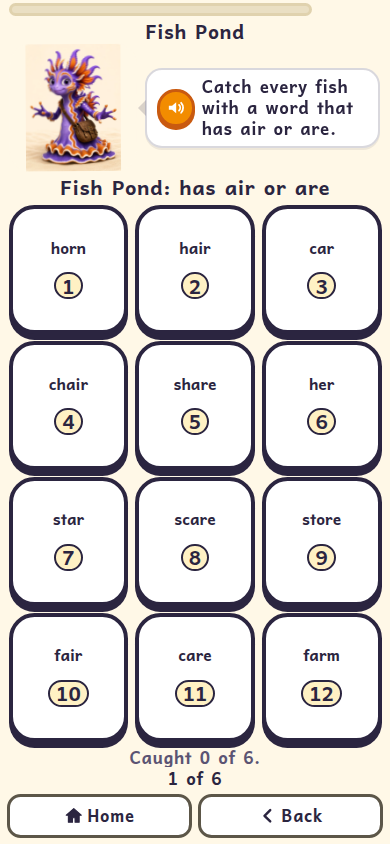
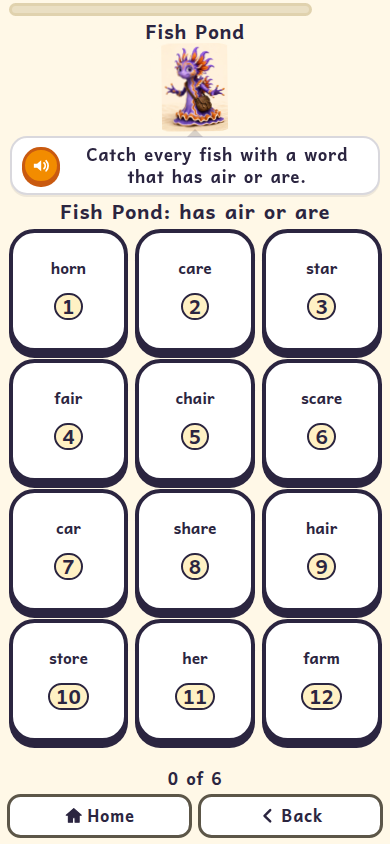
Keep story words directly under the picture.
The shared story layout for Units 1-3 and 7-12 puts spare space above the picture and below the page count. Fish Pond centers its character and keeps a single count.

diff --git a/u789.css b/u789.css
@@ -31,13 +31,27 @@
 .u789step .u1pic{flex:0 1 auto;min-height:0;display:flex;justify-content:center}
 .u789step .u1pic img{max-height:min(30vh,14rem);max-height:min(30svh,14rem);width:auto;max-width:80vw;aspect-ratio:1;object-fit:contain;border-radius:1rem}
 .u789step .matchgame .choices{max-height:9rem}
-/* Story: picture shrinks so the sentence and the Next page button always fit */
-.u789step .activity.story{display:grid!important;grid-template-rows:minmax(0,1fr) auto auto auto;justify-items:center}
-.u789step .activity.story .panelwrap{min-height:0;height:100%;display:flex;align-items:center;justify-content:center;width:100%}
-.u789step .activity.story .panel{max-height:100%;max-width:100%;width:auto;height:auto;object-fit:contain;border-radius:.8rem}
-.u789step .activity.story .sentrow{display:flex;align-items:center;gap:.4rem;max-width:100%}
+/* Story reader, shared by Units 1-3 (.u123step) and 7-12 (.u789step).
+   Title stays above this block. The picture is as large as the width allows.
+   Words sit directly under the picture, the page count under the words.
+   Spare space is split above the picture and below the count. */
+.u123step .activity.story,
+.u789step .activity.story{display:flex!important;flex-direction:column!important;align-items:center;justify-content:flex-start;height:100%;width:100%;min-height:0;gap:0;grid-template-rows:none!important;grid-template-columns:none!important}
+.u123step .activity.story::before,
+.u789step .activity.story::before,
+.u123step .activity.story::after,
+.u789step .activity.story::after{content:'';flex:1 1 0;min-height:0}
+.u123step .activity.story .panelwrap,
+.u789step .activity.story .panelwrap{flex:0 1 auto;min-height:0;width:100%;height:auto!important;max-height:none;display:flex;align-items:center;justify-content:center;margin:0}
+.u123step .activity.story .panel,
+.u789step .activity.story .panel{display:block;width:100%!important;height:auto!important;max-width:100%!important;max-height:min(58vh,100%)!important;max-height:min(58svh,100%)!important;object-fit:contain!important;object-position:center center;margin:0 auto;border-radius:.8rem}
+.u123step .activity.story .sentrow,
+.u789step .activity.story .sentrow{flex:none;display:flex;align-items:center;justify-content:center;gap:.4rem;max-width:100%;margin-top:.35rem}
+.u123step .activity.story .sentence,
 .u789step .activity.story .sentence{margin:0;font-size:clamp(1.15rem,min(5.6vw,4.2vh),2rem);line-height:1.3}
-.u789step .activity.story .small{margin:0}
+.u123step .activity.story .small,
+.u789step .activity.story .small{flex:none;margin:.15rem 0 0}
+.u123step .activity.story .row,
 .u789step .activity.story .row{padding-bottom:env(safe-area-inset-bottom)}
 .u789step .nkmeet .panelwrap.small .panel{max-height:16vh;max-height:16svh}
 .u789step .chips{display:flex;flex-wrap:wrap;justify-content:center;gap:.35rem}
@@ -76,8 +90,12 @@ body:not(.teach) .u789step .recneed{display:none}
   .u789step .chantact .panelwrap.small{display:none}
   .u789step .chainopts > .chainpick{height:2.6rem}
   .u789step .chainslot{height:2.6rem}
-  .u789step .activity.story{grid-template-columns:minmax(0,1fr) minmax(0,1fr);grid-template-rows:minmax(0,1fr) auto auto}
-  .u789step .activity.story .panelwrap{grid-row:1 / span 3}
+  .u123step .activity.story,
+  .u789step .activity.story{display:flex!important;flex-direction:column!important;grid-template-columns:none!important;grid-template-rows:none!important}
+  .u123step .activity.story .panel,
+  .u789step .activity.story .panel{max-height:30vh!important;max-height:30svh!important}
+  .u123step .activity.story .panelwrap,
+  .u789step .activity.story .panelwrap{grid-row:auto}
   .u789step .activity.story .sentence{font-size:clamp(1rem,4.6vh,1.35rem)!important;line-height:1.25}
   .u789step .activity.story .sentence *{font-size:inherit!important}
   .u789step .activity.story .btn.big{min-height:0;padding:.35rem 1rem;font-size:1.1rem}

diff --git a/js/u1012.js b/js/u1012.js
@@ -570,18 +570,18 @@
     const need = L.fishYes.length; let caught = 0; const st = ctx.stage;
     const line = 'Catch every fish with a word that ' + L.fishLabel + '.';
     ctx.setInstr(line, () => Snd.play(P('fish_' + L.key)));
-    const status = h('p', { class: 'status' }, 'Caught 0 of ' + need + '.');
+    const status = h('p', { class: 'status' }, '\u00a0');
     const pond = h('div', { class: 'choices three fishpond' });
     fish.forEach((f) => {
       const b = h('button', { class: 'choice', type: 'button', 'data-w': f.w }, f.w);
       b.addEventListener('click', async () => {
         if (b.classList.contains('right') || b.classList.contains('tried')) return;
-        if (f.yes) { b.classList.add('right', 'found'); b.replaceChildren(colorWord(f.w, L)); caught++; status.textContent = 'Yes! Caught ' + caught + ' of ' + need + '.'; ctx.progress(caught / need); await ding(f.w); if (caught >= need && ctx.scr.ok()) ctx.finish(); }
+        if (f.yes) { b.classList.add('right', 'found'); b.replaceChildren(colorWord(f.w, L)); caught++; status.textContent = '\u00a0'; if (ctx.count) ctx.count(caught, need); ctx.progress(caught / need); await ding(f.w); if (caught >= need && ctx.scr.ok()) ctx.finish(); }
         else { ctx.miss(); b.classList.add('tried'); status.textContent = 'Listen again. That fish does not fit.'; await Snd.seq([P6('listenagain'), W(f.w)], 140); }
       });
       pond.append(b);
     });
-    if (ctx.count) ctx.count(1, need);
+    if (ctx.count) ctx.count(0, need);
     st.append(h('div', { class: 'activity' }, h('p', { class: 'bigprompt' }, 'Fish Pond: ' + L.fishLabel), pond, status));
     IR.sayItem(ctx, P('fish_' + L.key), null);
   }

diff --git a/styles.css b/styles.css
@@ -3843,11 +3843,11 @@ html.teach .u5step .sentact .tile.word{font-size:clamp(1.7rem,4vh,2.4rem)!import
 .u123step .u1pic img,.u789step .u1pic img{
   display:block;margin-left:auto;margin-right:auto;object-fit:contain;object-position:center center
 }
-.u123step .activity.story .panel,.u789step .activity.story .panel{max-height:32vh;max-width:min(100%,36rem)}
+.u123step .activity.story .panel,.u789step .activity.story .panel{max-height:min(58vh,100%);max-height:min(58svh,100%);max-width:100%}
 .u123step .meetrow .panel,.u789step .meetrow .panel,.u123step .zs-art{max-height:22vh;width:auto;max-width:70vw}
 .u123step .u1pic,.u789step .u1pic{display:flex;align-items:center;justify-content:center;width:100%}
 @media (max-height:520px){
-  .u123step .activity.story .panel,.u789step .activity.story .panel{max-height:16vh}
+  .u123step .activity.story .panel,.u789step .activity.story .panel{max-height:30vh;max-height:30svh}
   .u123step .meetrow .panel,.u789step .meetrow .panel,.u123step .zs-art{max-height:12vh}
 }
 

diff --git a/u1012.css b/u1012.css
@@ -76,6 +76,12 @@
 .u1012slides .slidebar .homebtn{background:#F28C00;color:#fff;border:3px solid #C95A10}
 .u1012step .choice.found .chunk,.u1012step .bigword.found .chunk{font-weight:700}
 
+/* Game character sits centered above the instruction on every Units 10-12 game. */
+.u1012step > .instr.hasbuddy{flex-direction:column;align-items:center;justify-content:center;gap:.2rem;text-align:center}
+.u1012step > .instr.hasbuddy .buddy{height:clamp(3.4rem,11vh,5.2rem)!important}
+.u1012step > .instr.hasbuddy .ibubble{max-width:min(100%,22rem)}
+.u1012step > .instr.hasbuddy .ibubble::before{left:50%;top:-9px;margin:0 0 0 -8px;border:8px solid transparent;border-bottom-color:rgba(43,37,64,.18);border-top:0;border-right-color:transparent}
+
 @media (max-width:700px){
   .u1012slides .slide-title{font-size:.85rem}
   .u1012slides .slide-day{padding:.05rem .45rem;font-size:.85rem}
